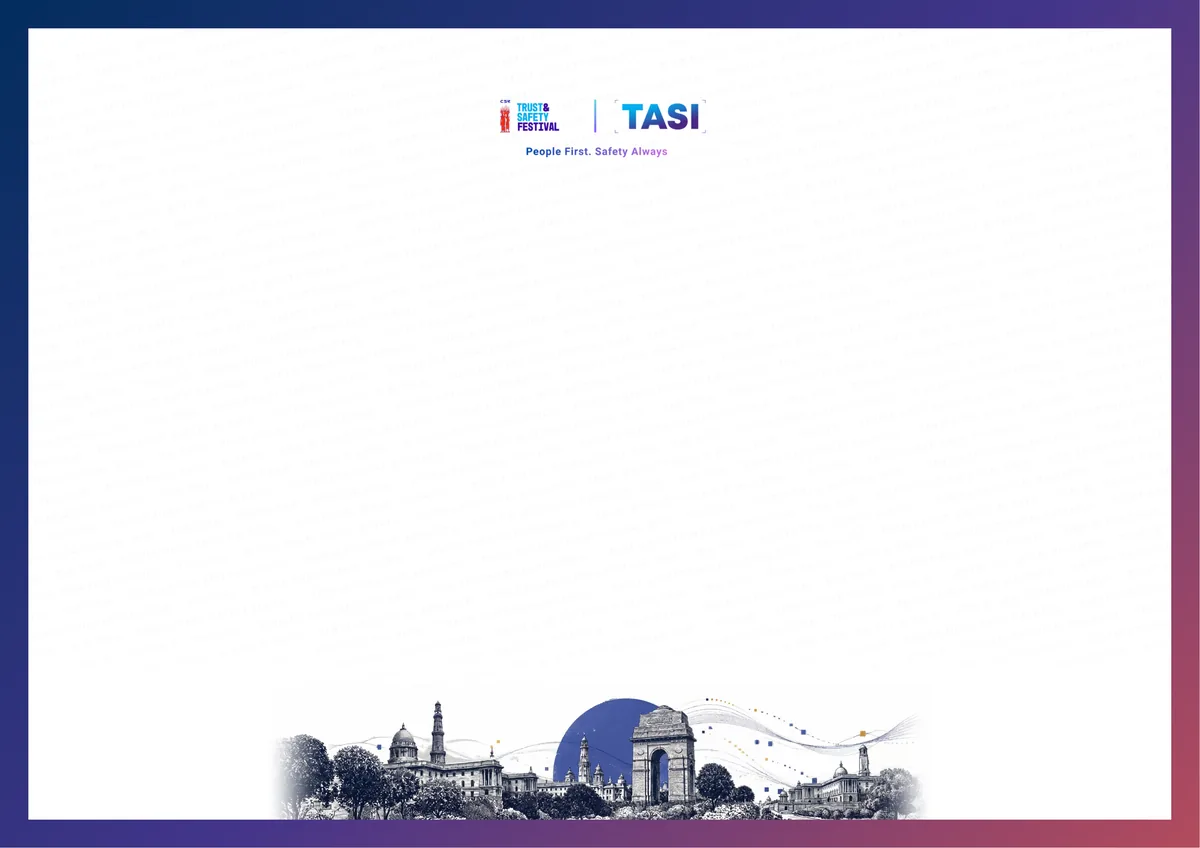
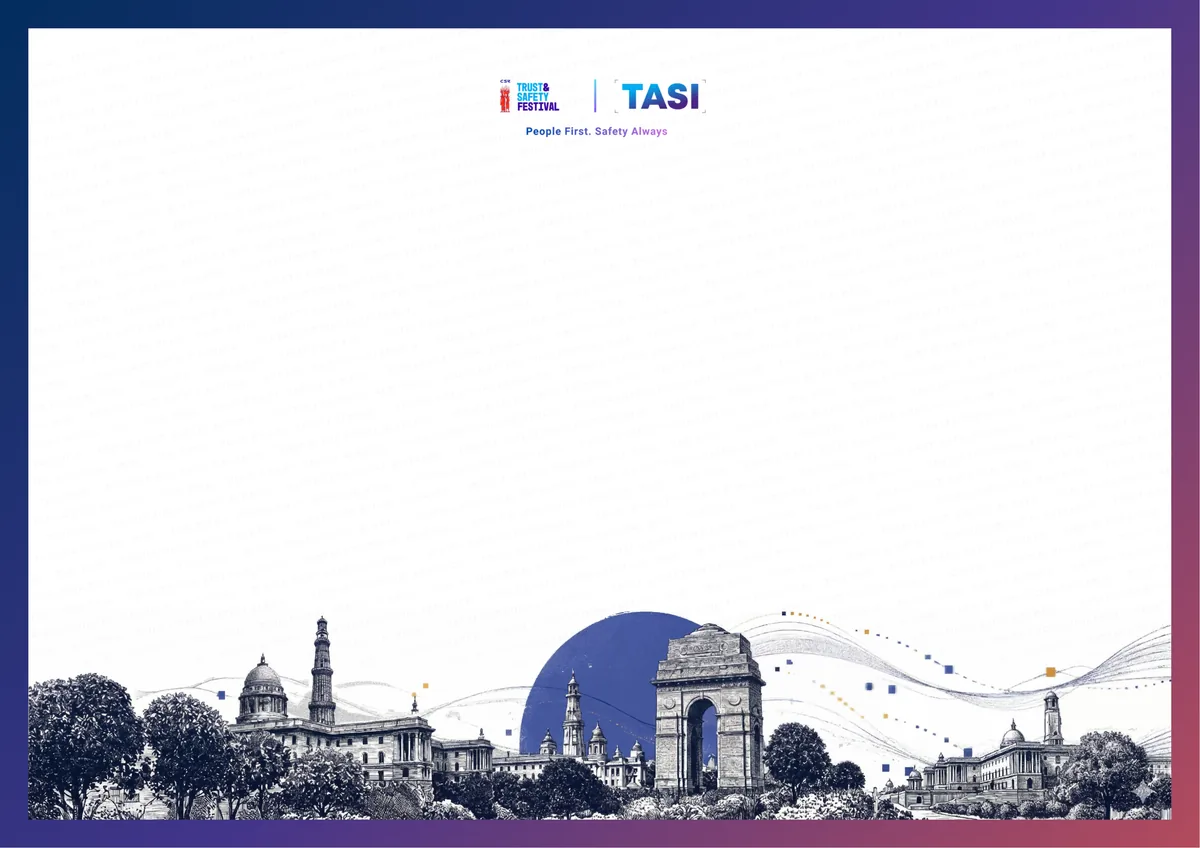
Certificates: full-width skyline touching both margins
The skyline is now a full-width band, as in the first mockup. Text moves
up 6 mm and the signature and verification block 12 mm to make room; the
bottom microtext moves into the coloured border. Preview, share card and
template backgrounds updated to match.

Claude-Session: https://claude.ai/code/session_01QDfwv1k387J6mq4NYmVYdf

Changed region(s): [[0.0, 0.7052, 0.9867, 0.9811], [0.4008, 0.092, 0.5858, 0.184]]

diff --git a/scripts/certificates/attendee-template.html b/scripts/certificates/attendee-template.html
@@ -12,10 +12,10 @@
   .frame { width: 297mm; height: 210mm; padding: 7mm; background: linear-gradient(135deg, #022d5d 0%, #43358a 52%, #b34b5c 100%); }
   .page { position: relative; width: 100%; height: 100%; background: #fff; overflow: hidden; }
   .micro { position: absolute; inset: -20mm; transform: rotate(-12deg); font-size: 5.5pt; line-height: 4.6mm; letter-spacing: .16em; font-weight: 600; color: #022d5d; opacity: .028; white-space: nowrap; overflow: hidden; }
-    .logo { mix-blend-mode: multiply; position: absolute; left: 50%; top: 14mm; height: 19mm; transform: translateX(-50%); }
-  .sig { position: absolute; left: 26mm; top: 124mm; height: 19mm; }
+    .logo { mix-blend-mode: multiply; position: absolute; left: 50%; top: 9mm; height: 19mm; transform: translateX(-50%); }
+  .sig { position: absolute; left: 26mm; top: 112mm; height: 19mm; }
     .fade { position: absolute; left: 0; right: 0; bottom: 0; height: 46mm; background: linear-gradient(to bottom, rgba(255,255,255,0) 0%, #fff 32%); }
-  .footer { mix-blend-mode: multiply; position: absolute; left: 50%; bottom: 0; width: 165mm; transform: translateX(-50%); }
+  .footer { mix-blend-mode: multiply; position: absolute; left: 0; bottom: 0; width: 100%; display: block; }
 </style></head>
 <body><div class="frame"><div class="page">
   <div class="micro"><div style="margin-left:-0mm">TRUST &amp; SAFETY INDIA FESTIVAL 2026 &nbsp;·&nbsp; TASI 2026 &nbsp;·&nbsp; PEOPLE FIRST. SAFETY ALWAYS. &nbsp;·&nbsp; CENTRE FOR SOCIAL RESEARCH &nbsp;·&nbsp; TRUST &amp; SAFETY INDIA FESTIVAL 2026 &nbsp;·&nbsp; TASI 2026 &nbsp;·&nbsp; PEOPLE FIRST. SAFETY ALWAYS. &nbsp;·&nbsp; CENTRE FOR SOCIAL RESEARCH &nbsp;·&nbsp; TRUST &amp; SAFETY INDIA FESTIVAL 2026 &nbsp;·&nbsp; TASI 2026 &nbsp;·&nbsp; PEOPLE FIRST. SAFETY ALWAYS. &nbsp;·&nbsp; CENTRE FOR SOCIAL RESEARCH &nbsp;·&nbsp; TRUST &amp; SAFETY INDIA FESTIVAL 2026 &nbsp;·&nbsp; TASI 2026 &nbsp;·&nbsp; PEOPLE FIRST. SAFETY ALWAYS. &nbsp;·&nbsp; CENTRE FOR SOCIAL RESEARCH &nbsp;·&nbsp; </div><div style="margin-left:-30mm">TRUST &amp; SAFETY INDIA FESTIVAL 2026 &nbsp;·&nbsp; TASI 2026 &nbsp;·&nbsp; PEOPLE FIRST. SAFETY ALWAYS. &nbsp;·&nbsp; CENTRE FOR SOCIAL RESEARCH &nbsp;·&nbsp; TRUST &amp; SAFETY INDIA FESTIVAL 2026 &nbsp;·&nbsp; TASI 2026 &nbsp;·&nbsp; PEOPLE FIRST. SAFETY ALWAYS. &nbsp;·&nbsp; CENTRE FOR SOCIAL RESEARCH &nbsp;·&nbsp; TRUST &amp; SAFETY INDIA FESTIVAL 2026 &nbsp;·&nbsp; TASI 2026 &nbsp;·&nbsp; PEOPLE FIRST. SAFETY ALWAYS. &nbsp;·&nbsp; CENTRE FOR SOCIAL RESEARCH &nbsp;·&nbsp; TRUST &amp; SAFETY INDIA FESTIVAL 2026 &nbsp;·&nbsp; TASI 2026 &nbsp;·&nbsp; PEOPLE FIRST. SAFETY ALWAYS. &nbsp;·&nbsp; CENTRE FOR SOCIAL RESEARCH &nbsp;·&nbsp; </div><div style="margin-left:-0mm">TRUST &amp; SAFETY INDIA FESTIVAL 2026 &nbsp;·&nbsp; TASI 2026 &nbsp;·&nbsp; PEOPLE FIRST. SAFETY ALWAYS. &nbsp;·&nbsp; CENTRE FOR SOCIAL RESEARCH &nbsp;·&nbsp; TRUST &amp; SAFETY INDIA FESTIVAL 2026 &nbsp;·&nbsp; TASI 2026 &nbsp;·&nbsp; PEOPLE FIRST. SAFETY ALWAYS. &nbsp;·&nbsp; CENTRE FOR SOCIAL RESEARCH &nbsp;·&nbsp; TRUST &amp; SAFETY INDIA FESTIVAL 2026 &nbsp;·&nbsp; TASI 2026 &nbsp;·&nbsp; PEOPLE FIRST. SAFETY ALWAYS. &nbsp;·&nbsp; CENTRE FOR SOCIAL RESEARCH &nbsp;·&nbsp; TRUST &amp; SAFETY INDIA FESTIVAL 2026 &nbsp;·&nbsp; TASI 2026 &nbsp;·&nbsp; PEOPLE FIRST. SAFETY ALWAYS. &nbsp;·&nbsp; CENTRE FOR SOCIAL RESEARCH &nbsp;·&nbsp; </div><div style="margin-left:-30mm">TRUST &amp; SAFETY INDIA FESTIVAL 2026 &nbsp;·&nbsp; TASI 2026 &nbsp;·&nbsp; PEOPLE FIRST. SAFETY ALWAYS. &nbsp;·&nbsp; CENTRE FOR SOCIAL RESEARCH &nbsp;·&nbsp; TRUST &amp; SAFETY INDIA FESTIVAL 2026 &nbsp;·&nbsp; TASI 2026 &nbsp;·&nbsp; PEOPLE FIRST. SAFETY ALWAYS. &nbsp;·&nbsp; CENTRE FOR SOCIAL RESEARCH &nbsp;·&nbsp; TRUST &amp; SAFETY INDIA FESTIVAL 2026 &nbsp;·&nbsp; TASI 2026 &nbsp;·&nbsp; PEOPLE FIRST. SAFETY ALWAYS. &nbsp;·&nbsp; CENTRE FOR SOCIAL RESEARCH &nbsp;·&nbsp; TRUST &amp; SAFETY INDIA FESTIVAL 2026 &nbsp;·&nbsp; TASI 2026 &nbsp;·&nbsp; PEOPLE FIRST. SAFETY ALWAYS. &nbsp;·&nbsp; CENTRE FOR SOCIAL RESEARCH &nbsp;·&nbsp; </div><div style="margin-left:-0mm">TRUST &amp; SAFETY INDIA FESTIVAL 2026 &nbsp;·&nbsp; TASI 2026 &nbsp;·&nbsp; PEOPLE FIRST. SAFETY ALWAYS. &nbsp;·&nbsp; CENTRE FOR SOCIAL RESEARCH &nbsp;·&nbsp; TRUST &amp; SAFETY INDIA FESTIVAL 2026 &nbsp;·&nbsp; TASI 2026 &nbsp;·&nbsp; PEOPLE FIRST. SAFETY ALWAYS. &nbsp;·&nbsp; CENTRE FOR SOCIAL RESEARCH &nbsp;·&nbsp; TRUST &amp; SAFETY INDIA FESTIVAL 2026 &nbsp;·&nbsp; TASI 2026 &nbsp;·&nbsp; PEOPLE FIRST. SAFETY ALWAYS. &nbsp;·&nbsp; CENTRE FOR SOCIAL RESEARCH &nbsp;·&nbsp; TRUST &amp; SAFETY INDIA FESTIVAL 2026 &nbsp;·&nbsp; TASI 2026 &nbsp;·&nbsp; PEOPLE FIRST. SAFETY ALWAYS. &nbsp;·&nbsp; CENTRE FOR SOCIAL RESEARCH &nbsp;·&nbsp; </div><div style="margin-left:-30mm">TRUST &amp; SAFETY INDIA FESTIVAL 2026 &nbsp;·&nbsp; TASI 2026 &nbsp;·&nbsp; PEOPLE FIRST. SAFETY ALWAYS. &nbsp;·&nbsp; CENTRE FOR SOCIAL RESEARCH &nbsp;·&nbsp; TRUST &amp; SAFETY INDIA FESTIVAL 2026 &nbsp;·&nbsp; TASI 2026 &nbsp;·&nbsp; PEOPLE FIRST. SAFETY ALWAYS. &nbsp;·&nbsp; CENTRE FOR SOCIAL RESEARCH &nbsp;·&nbsp; TRUST &amp; SAFETY INDIA FESTIVAL 2026 &nbsp;·&nbsp; TASI 2026 &nbsp;·&nbsp; PEOPLE FIRST. SAFETY ALWAYS. &nbsp;·&nbsp; CENTRE FOR SOCIAL RESEARCH &nbsp;·&nbsp; TRUST &amp; SAFETY INDIA FESTIVAL 2026 &nbsp;·&nbsp; TASI 2026 &nbsp;·&nbsp; PEOPLE FIRST. SAFETY ALWAYS. &nbsp;·&nbsp; CENTRE FOR SOCIAL RESEARCH &nbsp;·&nbsp; </div><div style="margin-left:-0mm">TRUST &amp; SAFETY INDIA FESTIVAL 2026 &nbsp;·&nbsp; TASI 2026 &nbsp;·&nbsp; PEOPLE FIRST. SAFETY ALWAYS. &nbsp;·&nbsp; CENTRE FOR SOCIAL RESEARCH &nbsp;·&nbsp; TRUST &amp; SAFETY INDIA FESTIVAL 2026 &nbsp;·&nbsp; TASI 2026 &nbsp;·&nbsp; PEOPLE FIRST. SAFETY ALWAYS. &nbsp;·&nbsp; CENTRE FOR SOCIAL RESEARCH &nbsp;·&nbsp; TRUST &amp; SAFETY INDIA FESTIVAL 2026 &nbsp;·&nbsp; TASI 2026 &nbsp;·&nbsp; PEOPLE FIRST. SAFETY ALWAYS. &nbsp;·&nbsp; CENTRE FOR SOCIAL RESEARCH &nbsp;·&nbsp; TRUST &amp; SAFETY INDIA FESTIVAL 2026 &nbsp;·&nbsp; TASI 2026 &nbsp;·&nbsp; PEOPLE FIRST. SAFETY ALWAYS. &nbsp;·&nbsp; CENTRE FOR SOCIAL RESEARCH &nbsp;·&nbsp; </div><div style="margin-left:-30mm">TRUST &amp; SAFETY INDIA FESTIVAL 2026 &nbsp;·&nbsp; TASI 2026 &nbsp;·&nbsp; PEOPLE FIRST. SAFETY ALWAYS. &nbsp;·&nbsp; CENTRE FOR SOCIAL RESEARCH &nbsp;·&nbsp; TRUST &amp; SAFETY INDIA FESTIVAL 2026 &nbsp;·&nbsp; TASI 2026 &nbsp;·&nbsp; PEOPLE FIRST. SAFETY ALWAYS. &nbsp;·&nbsp; CENTRE FOR SOCIAL RESEARCH &nbsp;·&nbsp; TRUST &amp; SAFETY INDIA FESTIVAL 2026 &nbsp;·&nbsp; TASI 2026 &nbsp;·&nbsp; PEOPLE FIRST. SAFETY ALWAYS. &nbsp;·&nbsp; CENTRE FOR SOCIAL RESEARCH &nbsp;·&nbsp; TRUST &amp; SAFETY INDIA FESTIVAL 2026 &nbsp;·&nbsp; TASI 2026 &nbsp;·&nbsp; PEOPLE FIRST. SAFETY ALWAYS. &nbsp;·&nbsp; CENTRE FOR SOCIAL RESEARCH &nbsp;·&nbsp; </div><div style="margin-left:-0mm">TRUST &amp; SAFETY INDIA FESTIVAL 2026 &nbsp;·&nbsp; TASI 2026 &nbsp;·&nbsp; PEOPLE FIRST. SAFETY ALWAYS. &nbsp;·&nbsp; CENTRE FOR SOCIAL RESEARCH &nbsp;·&nbsp; TRUST &amp; SAFETY INDIA FESTIVAL 2026 &nbsp;·&nbsp; TASI 2026 &nbsp;·&nbsp; PEOPLE FIRST. SAFETY ALWAYS. &nbsp;·&nbsp; CENTRE FOR SOCIAL RESEARCH &nbsp;·&nbsp; TRUST &amp; SAFETY INDIA FESTIVAL 2026 &nbsp;·&nbsp; TASI 2026 &nbsp;·&nbsp; PEOPLE FIRST. SAFETY ALWAYS. &nbsp;·&nbsp; CENTRE FOR SOCIAL RESEARCH &nbsp;·&nbsp; TRUST &amp; SAFETY INDIA FESTIVAL 2026 &nbsp;·&nbsp; TASI 2026 &nbsp;·&nbsp; PEOPLE FIRST. SAFETY ALWAYS. &nbsp;·&nbsp; CENTRE FOR SOCIAL RESEARCH &nbsp;·&nbsp; </div><div style="margin-left:-30mm">TRUST &amp; SAFETY INDIA FESTIVAL 2026 &nbsp;·&nbsp; TASI 2026 &nbsp;·&nbsp; PEOPLE FIRST. SAFETY ALWAYS. &nbsp;·&nbsp; CENTRE FOR SOCIAL RESEARCH &nbsp;·&nbsp; TRUST &amp; SAFETY INDIA FESTIVAL 2026 &nbsp;·&nbsp; TASI 2026 &nbsp;·&nbsp; PEOPLE FIRST. SAFETY ALWAYS. &nbsp;·&nbsp; CENTRE FOR SOCIAL RESEARCH &nbsp;·&nbsp; TRUST &amp; SAFETY INDIA FESTIVAL 2026 &nbsp;·&nbsp; TASI 2026 &nbsp;·&nbsp; PEOPLE FIRST. SAFETY ALWAYS. &nbsp;·&nbsp; CENTRE FOR SOCIAL RESEARCH &nbsp;·&nbsp; TRUST &amp; SAFETY INDIA FESTIVAL 2026 &nbsp;·&nbsp; TASI 2026 &nbsp;·&nbsp; PEOPLE FIRST. SAFETY ALWAYS. &nbsp;·&nbsp; CENTRE FOR SOCIAL RESEARCH &nbsp;·&nbsp; </div><div style="margin-left:-0mm">TRUST &amp; SAFETY INDIA FESTIVAL 2026 &nbsp;·&nbsp; TASI 2026 &nbsp;·&nbsp; PEOPLE FIRST. SAFETY ALWAYS. &nbsp;·&nbsp; CENTRE FOR SOCIAL RESEARCH &nbsp;·&nbsp; TRUST &amp; SAFETY INDIA FESTIVAL 2026 &nbsp;·&nbsp; TASI 2026 &nbsp;·&nbsp; PEOPLE FIRST. SAFETY ALWAYS. &nbsp;·&nbsp; CENTRE FOR SOCIAL RESEARCH &nbsp;·&nbsp; TRUST &amp; SAFETY INDIA FESTIVAL 2026 &nbsp;·&nbsp; TASI 2026 &nbsp;·&nbsp; PEOPLE FIRST. SAFETY ALWAYS. &nbsp;·&nbsp; CENTRE FOR SOCIAL RESEARCH &nbsp;·&nbsp; TRUST &amp; SAFETY INDIA FESTIVAL 2026 &nbsp;·&nbsp; TASI 2026 &nbsp;·&nbsp; PEOPLE FIRST. SAFETY ALWAYS. &nbsp;·&nbsp; CENTRE FOR SOCIAL RESEARCH &nbsp;·&nbsp; </div><div style="margin-left:-30mm">TRUST &amp; SAFETY INDIA FESTIVAL 2026 &nbsp;·&nbsp; TASI 2026 &nbsp;·&nbsp; PEOPLE FIRST. SAFETY ALWAYS. &nbsp;·&nbsp; CENTRE FOR SOCIAL RESEARCH &nbsp;·&nbsp; TRUST &amp; SAFETY INDIA FESTIVAL 2026 &nbsp;·&nbsp; TASI 2026 &nbsp;·&nbsp; PEOPLE FIRST. SAFETY ALWAYS. &nbsp;·&nbsp; CENTRE FOR SOCIAL RESEARCH &nbsp;·&nbsp; TRUST &amp; SAFETY INDIA FESTIVAL 2026 &nbsp;·&nbsp; TASI 2026 &nbsp;·&nbsp; PEOPLE FIRST. SAFETY ALWAYS. &nbsp;·&nbsp; CENTRE FOR SOCIAL RESEARCH &nbsp;·&nbsp; TRUST &amp; SAFETY INDIA FESTIVAL 2026 &nbsp;·&nbsp; TASI 2026 &nbsp;·&nbsp; PEOPLE FIRST. SAFETY ALWAYS. &nbsp;·&nbsp; CENTRE FOR SOCIAL RESEARCH &nbsp;·&nbsp; </div><div style="margin-left:-0mm">TRUST &amp; SAFETY INDIA FESTIVAL 2026 &nbsp;·&nbsp; TASI 2026 &nbsp;·&nbsp; PEOPLE FIRST. SAFETY ALWAYS. &nbsp;·&nbsp; CENTRE FOR SOCIAL RESEARCH &nbsp;·&nbsp; TRUST &amp; SAFETY INDIA FESTIVAL 2026 &nbsp;·&nbsp; TASI 2026 &nbsp;·&nbsp; PEOPLE FIRST. SAFETY ALWAYS. &nbsp;·&nbsp; CENTRE FOR SOCIAL RESEARCH &nbsp;·&nbsp; TRUST &amp; SAFETY INDIA FESTIVAL 2026 &nbsp;·&nbsp; TASI 2026 &nbsp;·&nbsp; PEOPLE FIRST. SAFETY ALWAYS. &nbsp;·&nbsp; CENTRE FOR SOCIAL RESEARCH &nbsp;·&nbsp; TRUST &amp; SAFETY INDIA FESTIVAL 2026 &nbsp;·&nbsp; TASI 2026 &nbsp;·&nbsp; PEOPLE FIRST. SAFETY ALWAYS. &nbsp;·&nbsp; CENTRE FOR SOCIAL RESEARCH &nbsp;·&nbsp; </div><div style="margin-left:-30mm">TRUST &amp; SAFETY INDIA FESTIVAL 2026 &nbsp;·&nbsp; TASI 2026 &nbsp;·&nbsp; PEOPLE FIRST. SAFETY ALWAYS. &nbsp;·&nbsp; CENTRE FOR SOCIAL RESEARCH &nbsp;·&nbsp; TRUST &amp; SAFETY INDIA FESTIVAL 2026 &nbsp;·&nbsp; TASI 2026 &nbsp;·&nbsp; PEOPLE FIRST. SAFETY ALWAYS. &nbsp;·&nbsp; CENTRE FOR SOCIAL RESEARCH &nbsp;·&nbsp; TRUST &amp; SAFETY INDIA FESTIVAL 2026 &nbsp;·&nbsp; TASI 2026 &nbsp;·&nbsp; PEOPLE FIRST. SAFETY ALWAYS. &nbsp;·&nbsp; CENTRE FOR SOCIAL RESEARCH &nbsp;·&nbsp; TRUST &amp; SAFETY INDIA FESTIVAL 2026 &nbsp;·&nbsp; TASI 2026 &nbsp;·&nbsp; PEOPLE FIRST. SAFETY ALWAYS. &nbsp;·&nbsp; CENTRE FOR SOCIAL RESEARCH &nbsp;·&nbsp; </div><div style="margin-left:-0mm">TRUST &amp; SAFETY INDIA FESTIVAL 2026 &nbsp;·&nbsp; TASI 2026 &nbsp;·&nbsp; PEOPLE FIRST. SAFETY ALWAYS. &nbsp;·&nbsp; CENTRE FOR SOCIAL RESEARCH &nbsp;·&nbsp; TRUST &amp; SAFETY INDIA FESTIVAL 2026 &nbsp;·&nbsp; TASI 2026 &nbsp;·&nbsp; PEOPLE FIRST. SAFETY ALWAYS. &nbsp;·&nbsp; CENTRE FOR SOCIAL RESEARCH &nbsp;·&nbsp; TRUST &amp; SAFETY INDIA FESTIVAL 2026 &nbsp;·&nbsp; TASI 2026 &nbsp;·&nbsp; PEOPLE FIRST. SAFETY ALWAYS. &nbsp;·&nbsp; CENTRE FOR SOCIAL RESEARCH &nbsp;·&nbsp; TRUST &amp; SAFETY INDIA FESTIVAL 2026 &nbsp;·&nbsp; TASI 2026 &nbsp;·&nbsp; PEOPLE FIRST. SAFETY ALWAYS. &nbsp;·&nbsp; CENTRE FOR SOCIAL RESEARCH &nbsp;·&nbsp; </div><div style="margin-left:-30mm">TRUST &amp; SAFETY INDIA FESTIVAL 2026 &nbsp;·&nbsp; TASI 2026 &nbsp;·&nbsp; PEOPLE FIRST. SAFETY ALWAYS. &nbsp;·&nbsp; CENTRE FOR SOCIAL RESEARCH &nbsp;·&nbsp; TRUST &amp; SAFETY INDIA FESTIVAL 2026 &nbsp;·&nbsp; TASI 2026 &nbsp;·&nbsp; PEOPLE FIRST. SAFETY ALWAYS. &nbsp;·&nbsp; CENTRE FOR SOCIAL RESEARCH &nbsp;·&nbsp; TRUST &amp; SAFETY INDIA FESTIVAL 2026 &nbsp;·&nbsp; TASI 2026 &nbsp;·&nbsp; PEOPLE FIRST. SAFETY ALWAYS. &nbsp;·&nbsp; CENTRE FOR SOCIAL RESEARCH &nbsp;·&nbsp; TRUST &amp; SAFETY INDIA FESTIVAL 2026 &nbsp;·&nbsp; TASI 2026 &nbsp;·&nbsp; PEOPLE FIRST. SAFETY ALWAYS. &nbsp;·&nbsp; CENTRE FOR SOCIAL RESEARCH &nbsp;·&nbsp; </div><div style="margin-left:-0mm">TRUST &amp; SAFETY INDIA FESTIVAL 2026 &nbsp;·&nbsp; TASI 2026 &nbsp;·&nbsp; PEOPLE FIRST. SAFETY ALWAYS. &nbsp;·&nbsp; CENTRE FOR SOCIAL RESEARCH &nbsp;·&nbsp; TRUST &amp; SAFETY INDIA FESTIVAL 2026 &nbsp;·&nbsp; TASI 2026 &nbsp;·&nbsp; PEOPLE FIRST. SAFETY ALWAYS. &nbsp;·&nbsp; CENTRE FOR SOCIAL RESEARCH &nbsp;·&nbsp; TRUST &amp; SAFETY INDIA FESTIVAL 2026 &nbsp;·&nbsp; TASI 2026 &nbsp;·&nbsp; PEOPLE FIRST. SAFETY ALWAYS. &nbsp;·&nbsp; CENTRE FOR SOCIAL RESEARCH &nbsp;·&nbsp; TRUST &amp; SAFETY INDIA FESTIVAL 2026 &nbsp;·&nbsp; TASI 2026 &nbsp;·&nbsp; PEOPLE FIRST. SAFETY ALWAYS. &nbsp;·&nbsp; CENTRE FOR SOCIAL RESEARCH &nbsp;·&nbsp; </div><div style="margin-left:-30mm">TRUST &amp; SAFETY INDIA FESTIVAL 2026 &nbsp;·&nbsp; TASI 2026 &nbsp;·&nbsp; PEOPLE FIRST. SAFETY ALWAYS. &nbsp;·&nbsp; CENTRE FOR SOCIAL RESEARCH &nbsp;·&nbsp; TRUST &amp; SAFETY INDIA FESTIVAL 2026 &nbsp;·&nbsp; TASI 2026 &nbsp;·&nbsp; PEOPLE FIRST. SAFETY ALWAYS. &nbsp;·&nbsp; CENTRE FOR SOCIAL RESEARCH &nbsp;·&nbsp; TRUST &amp; SAFETY INDIA FESTIVAL 2026 &nbsp;·&nbsp; TASI 2026 &nbsp;·&nbsp; PEOPLE FIRST. SAFETY ALWAYS. &nbsp;·&nbsp; CENTRE FOR SOCIAL RESEARCH &nbsp;·&nbsp; TRUST &amp; SAFETY INDIA FESTIVAL 2026 &nbsp;·&nbsp; TASI 2026 &nbsp;·&nbsp; PEOPLE FIRST. SAFETY ALWAYS. &nbsp;·&nbsp; CENTRE FOR SOCIAL RESEARCH &nbsp;·&nbsp; </div><div style="margin-left:-0mm">TRUST &amp; SAFETY INDIA FESTIVAL 2026 &nbsp;·&nbsp; TASI 2026 &nbsp;·&nbsp; PEOPLE FIRST. SAFETY ALWAYS. &nbsp;·&nbsp; CENTRE FOR SOCIAL RESEARCH &nbsp;·&nbsp; TRUST &amp; SAFETY INDIA FESTIVAL 2026 &nbsp;·&nbsp; TASI 2026 &nbsp;·&nbsp; PEOPLE FIRST. SAFETY ALWAYS. &nbsp;·&nbsp; CENTRE FOR SOCIAL RESEARCH &nbsp;·&nbsp; TRUST &amp; SAFETY INDIA FESTIVAL 2026 &nbsp;·&nbsp; TASI 2026 &nbsp;·&nbsp; PEOPLE FIRST. SAFETY ALWAYS. &nbsp;·&nbsp; CENTRE FOR SOCIAL RESEARCH &nbsp;·&nbsp; TRUST &amp; SAFETY INDIA FESTIVAL 2026 &nbsp;·&nbsp; TASI 2026 &nbsp;·&nbsp; PEOPLE FIRST. SAFETY ALWAYS. &nbsp;·&nbsp; CENTRE FOR SOCIAL RESEARCH &nbsp;·&nbsp; </div><div style="margin-left:-30mm">TRUST &amp; SAFETY INDIA FESTIVAL 2026 &nbsp;·&nbsp; TASI 2026 &nbsp;·&nbsp; PEOPLE FIRST. SAFETY ALWAYS. &nbsp;·&nbsp; CENTRE FOR SOCIAL RESEARCH &nbsp;·&nbsp; TRUST &amp; SAFETY INDIA FESTIVAL 2026 &nbsp;·&nbsp; TASI 2026 &nbsp;·&nbsp; PEOPLE FIRST. SAFETY ALWAYS. &nbsp;·&nbsp; CENTRE FOR SOCIAL RESEARCH &nbsp;·&nbsp; TRUST &amp; SAFETY INDIA FESTIVAL 2026 &nbsp;·&nbsp; TASI 2026 &nbsp;·&nbsp; PEOPLE FIRST. SAFETY ALWAYS. &nbsp;·&nbsp; CENTRE FOR SOCIAL RESEARCH &nbsp;·&nbsp; TRUST &amp; SAFETY INDIA FESTIVAL 2026 &nbsp;·&nbsp; TASI 2026 &nbsp;·&nbsp; PEOPLE FIRST. SAFETY ALWAYS. &nbsp;·&nbsp; CENTRE FOR SOCIAL RESEARCH &nbsp;·&nbsp; </div><div style="margin-left:-0mm">TRUST &amp; SAFETY INDIA FESTIVAL 2026 &nbsp;·&nbsp; TASI 2026 &nbsp;·&nbsp; PEOPLE FIRST. SAFETY ALWAYS. &nbsp;·&nbsp; CENTRE FOR SOCIAL RESEARCH &nbsp;·&nbsp; TRUST &amp; SAFETY INDIA FESTIVAL 2026 &nbsp;·&nbsp; TASI 2026 &nbsp;·&nbsp; PEOPLE FIRST. SAFETY ALWAYS. &nbsp;·&nbsp; CENTRE FOR SOCIAL RESEARCH &nbsp;·&nbsp; TRUST &amp; SAFETY INDIA FESTIVAL 2026 &nbsp;·&nbsp; TASI 2026 &nbsp;·&nbsp; PEOPLE FIRST. SAFETY ALWAYS. &nbsp;·&nbsp; CENTRE FOR SOCIAL RESEARCH &nbsp;·&nbsp; TRUST &amp; SAFETY INDIA FESTIVAL 2026 &nbsp;·&nbsp; TASI 2026 &nbsp;·&nbsp; PEOPLE FIRST. SAFETY ALWAYS. &nbsp;·&nbsp; CENTRE FOR SOCIAL RESEARCH &nbsp;·&nbsp; </div><div style="margin-left:-30mm">TRUST &amp; SAFETY INDIA FESTIVAL 2026 &nbsp;·&nbsp; TASI 2026 &nbsp;·&nbsp; PEOPLE FIRST. SAFETY ALWAYS. &nbsp;·&nbsp; CENTRE FOR SOCIAL RESEARCH &nbsp;·&nbsp; TRUST &amp; SAFETY INDIA FESTIVAL 2026 &nbsp;·&nbsp; TASI 2026 &nbsp;·&nbsp; PEOPLE FIRST. SAFETY ALWAYS. &nbsp;·&nbsp; CENTRE FOR SOCIAL RESEARCH &nbsp;·&nbsp; TRUST &amp; SAFETY INDIA FESTIVAL 2026 &nbsp;·&nbsp; TASI 2026 &nbsp;·&nbsp; PEOPLE FIRST. SAFETY ALWAYS. &nbsp;·&nbsp; CENTRE FOR SOCIAL RESEARCH &nbsp;·&nbsp; TRUST &amp; SAFETY INDIA FESTIVAL 2026 &nbsp;·&nbsp; TASI 2026 &nbsp;·&nbsp; PEOPLE FIRST. SAFETY ALWAYS. &nbsp;·&nbsp; CENTRE FOR SOCIAL RESEARCH &nbsp;·&nbsp; </div><div style="margin-left:-0mm">TRUST &amp; SAFETY INDIA FESTIVAL 2026 &nbsp;·&nbsp; TASI 2026 &nbsp;·&nbsp; PEOPLE FIRST. SAFETY ALWAYS. &nbsp;·&nbsp; CENTRE FOR SOCIAL RESEARCH &nbsp;·&nbsp; TRUST &amp; SAFETY INDIA FESTIVAL 2026 &nbsp;·&nbsp; TASI 2026 &nbsp;·&nbsp; PEOPLE FIRST. SAFETY ALWAYS. &nbsp;·&nbsp; CENTRE FOR SOCIAL RESEARCH &nbsp;·&nbsp; TRUST &amp; SAFETY INDIA FESTIVAL 2026 &nbsp;·&nbsp; TASI 2026 &nbsp;·&nbsp; PEOPLE FIRST. SAFETY ALWAYS. &nbsp;·&nbsp; CENTRE FOR SOCIAL RESEARCH &nbsp;·&nbsp; TRUST &amp; SAFETY INDIA FESTIVAL 2026 &nbsp;·&nbsp; TASI 2026 &nbsp;·&nbsp; PEOPLE FIRST. SAFETY ALWAYS. &nbsp;·&nbsp; CENTRE FOR SOCIAL RESEARCH &nbsp;·&nbsp; </div><div style="margin-left:-30mm">TRUST &amp; SAFETY INDIA FESTIVAL 2026 &nbsp;·&nbsp; TASI 2026 &nbsp;·&nbsp; PEOPLE FIRST. SAFETY ALWAYS. &nbsp;·&nbsp; CENTRE FOR SOCIAL RESEARCH &nbsp;·&nbsp; TRUST &amp; SAFETY INDIA FESTIVAL 2026 &nbsp;·&nbsp; TASI 2026 &nbsp;·&nbsp; PEOPLE FIRST. SAFETY ALWAYS. &nbsp;·&nbsp; CENTRE FOR SOCIAL RESEARCH &nbsp;·&nbsp; TRUST &amp; SAFETY INDIA FESTIVAL 2026 &nbsp;·&nbsp; TASI 2026 &nbsp;·&nbsp; PEOPLE FIRST. SAFETY ALWAYS. &nbsp;·&nbsp; CENTRE FOR SOCIAL RESEARCH &nbsp;·&nbsp; TRUST &amp; SAFETY INDIA FESTIVAL 2026 &nbsp;·&nbsp; TASI 2026 &nbsp;·&nbsp; PEOPLE FIRST. SAFETY ALWAYS. &nbsp;·&nbsp; CENTRE FOR SOCIAL RESEARCH &nbsp;·&nbsp; </div><div style="margin-left:-0mm">TRUST &amp; SAFETY INDIA FESTIVAL 2026 &nbsp;·&nbsp; TASI 2026 &nbsp;·&nbsp; PEOPLE FIRST. SAFETY ALWAYS. &nbsp;·&nbsp; CENTRE FOR SOCIAL RESEARCH &nbsp;·&nbsp; TRUST &amp; SAFETY INDIA FESTIVAL 2026 &nbsp;·&nbsp; TASI 2026 &nbsp;·&nbsp; PEOPLE FIRST. SAFETY ALWAYS. &nbsp;·&nbsp; CENTRE FOR SOCIAL RESEARCH &nbsp;·&nbsp; TRUST &amp; SAFETY INDIA FESTIVAL 2026 &nbsp;·&nbsp; TASI 2026 &nbsp;·&nbsp; PEOPLE FIRST. SAFETY ALWAYS. &nbsp;·&nbsp; CENTRE FOR SOCIAL RESEARCH &nbsp;·&nbsp; TRUST &amp; SAFETY INDIA FESTIVAL 2026 &nbsp;·&nbsp; TASI 2026 &nbsp;·&nbsp; PEOPLE FIRST. SAFETY ALWAYS. &nbsp;·&nbsp; CENTRE FOR SOCIAL RESEARCH &nbsp;·&nbsp; </div><div style="margin-left:-30mm">TRUST &amp; SAFETY INDIA FESTIVAL 2026 &nbsp;·&nbsp; TASI 2026 &nbsp;·&nbsp; PEOPLE FIRST. SAFETY ALWAYS. &nbsp;·&nbsp; CENTRE FOR SOCIAL RESEARCH &nbsp;·&nbsp; TRUST &amp; SAFETY INDIA FESTIVAL 2026 &nbsp;·&nbsp; TASI 2026 &nbsp;·&nbsp; PEOPLE FIRST. SAFETY ALWAYS. &nbsp;·&nbsp; CENTRE FOR SOCIAL RESEARCH &nbsp;·&nbsp; TRUST &amp; SAFETY INDIA FESTIVAL 2026 &nbsp;·&nbsp; TASI 2026 &nbsp;·&nbsp; PEOPLE FIRST. SAFETY ALWAYS. &nbsp;·&nbsp; CENTRE FOR SOCIAL RESEARCH &nbsp;·&nbsp; TRUST &amp; SAFETY INDIA FESTIVAL 2026 &nbsp;·&nbsp; TASI 2026 &nbsp;·&nbsp; PEOPLE FIRST. SAFETY ALWAYS. &nbsp;·&nbsp; CENTRE FOR SOCIAL RESEARCH &nbsp;·&nbsp; </div><div style="margin-left:-0mm">TRUST &amp; SAFETY INDIA FESTIVAL 2026 &nbsp;·&nbsp; TASI 2026 &nbsp;·&nbsp; PEOPLE FIRST. SAFETY ALWAYS. &nbsp;·&nbsp; CENTRE FOR SOCIAL RESEARCH &nbsp;·&nbsp; TRUST &amp; SAFETY INDIA FESTIVAL 2026 &nbsp;·&nbsp; TASI 2026 &nbsp;·&nbsp; PEOPLE FIRST. SAFETY ALWAYS. &nbsp;·&nbsp; CENTRE FOR SOCIAL RESEARCH &nbsp;·&nbsp; TRUST &amp; SAFETY INDIA FESTIVAL 2026 &nbsp;·&nbsp; TASI 2026 &nbsp;·&nbsp; PEOPLE FIRST. SAFETY ALWAYS. &nbsp;·&nbsp; CENTRE FOR SOCIAL RESEARCH &nbsp;·&nbsp; TRUST &amp; SAFETY INDIA FESTIVAL 2026 &nbsp;·&nbsp; TASI 2026 &nbsp;·&nbsp; PEOPLE FIRST. SAFETY ALWAYS. &nbsp;·&nbsp; CENTRE FOR SOCIAL RESEARCH &nbsp;·&nbsp; </div><div style="margin-left:-30mm">TRUST &amp; SAFETY INDIA FESTIVAL 2026 &nbsp;·&nbsp; TASI 2026 &nbsp;·&nbsp; PEOPLE FIRST. SAFETY ALWAYS. &nbsp;·&nbsp; CENTRE FOR SOCIAL RESEARCH &nbsp;·&nbsp; TRUST &amp; SAFETY INDIA FESTIVAL 2026 &nbsp;·&nbsp; TASI 2026 &nbsp;·&nbsp; PEOPLE FIRST. SAFETY ALWAYS. &nbsp;·&nbsp; CENTRE FOR SOCIAL RESEARCH &nbsp;·&nbsp; TRUST &amp; SAFETY INDIA FESTIVAL 2026 &nbsp;·&nbsp; TASI 2026 &nbsp;·&nbsp; PEOPLE FIRST. SAFETY ALWAYS. &nbsp;·&nbsp; CENTRE FOR SOCIAL RESEARCH &nbsp;·&nbsp; TRUST &amp; SAFETY INDIA FESTIVAL 2026 &nbsp;·&nbsp; TASI 2026 &nbsp;·&nbsp; PEOPLE FIRST. SAFETY ALWAYS. &nbsp;·&nbsp; CENTRE FOR SOCIAL RESEARCH &nbsp;·&nbsp; </div><div style="margin-left:-0mm">TRUST &amp; SAFETY INDIA FESTIVAL 2026 &nbsp;·&nbsp; TASI 2026 &nbsp;·&nbsp; PEOPLE FIRST. SAFETY ALWAYS. &nbsp;·&nbsp; CENTRE FOR SOCIAL RESEARCH &nbsp;·&nbsp; TRUST &amp; SAFETY INDIA FESTIVAL 2026 &nbsp;·&nbsp; TASI 2026 &nbsp;·&nbsp; PEOPLE FIRST. SAFETY ALWAYS. &nbsp;·&nbsp; CENTRE FOR SOCIAL RESEARCH &nbsp;·&nbsp; TRUST &amp; SAFETY INDIA FESTIVAL 2026 &nbsp;·&nbsp; TASI 2026 &nbsp;·&nbsp; PEOPLE FIRST. SAFETY ALWAYS. &nbsp;·&nbsp; CENTRE FOR SOCIAL RESEARCH &nbsp;·&nbsp; TRUST &amp; SAFETY INDIA FESTIVAL 2026 &nbsp;·&nbsp; TASI 2026 &nbsp;·&nbsp; PEOPLE FIRST. SAFETY ALWAYS. &nbsp;·&nbsp; CENTRE FOR SOCIAL RESEARCH &nbsp;·&nbsp; </div><div style="margin-left:-30mm">TRUST &amp; SAFETY INDIA FESTIVAL 2026 &nbsp;·&nbsp; TASI 2026 &nbsp;·&nbsp; PEOPLE FIRST. SAFETY ALWAYS. &nbsp;·&nbsp; CENTRE FOR SOCIAL RESEARCH &nbsp;·&nbsp; TRUST &amp; SAFETY INDIA FESTIVAL 2026 &nbsp;·&nbsp; TASI 2026 &nbsp;·&nbsp; PEOPLE FIRST. SAFETY ALWAYS. &nbsp;·&nbsp; CENTRE FOR SOCIAL RESEARCH &nbsp;·&nbsp; TRUST &amp; SAFETY INDIA FESTIVAL 2026 &nbsp;·&nbsp; TASI 2026 &nbsp;·&nbsp; PEOPLE FIRST. SAFETY ALWAYS. &nbsp;·&nbsp; CENTRE FOR SOCIAL RESEARCH &nbsp;·&nbsp; TRUST &amp; SAFETY INDIA FESTIVAL 2026 &nbsp;·&nbsp; TASI 2026 &nbsp;·&nbsp; PEOPLE FIRST. SAFETY ALWAYS. &nbsp;·&nbsp; CENTRE FOR SOCIAL RESEARCH &nbsp;·&nbsp; </div><div style="margin-left:-0mm">TRUST &amp; SAFETY INDIA FESTIVAL 2026 &nbsp;·&nbsp; TASI 2026 &nbsp;·&nbsp; PEOPLE FIRST. SAFETY ALWAYS. &nbsp;·&nbsp; CENTRE FOR SOCIAL RESEARCH &nbsp;·&nbsp; TRUST &amp; SAFETY INDIA FESTIVAL 2026 &nbsp;·&nbsp; TASI 2026 &nbsp;·&nbsp; PEOPLE FIRST. SAFETY ALWAYS. &nbsp;·&nbsp; CENTRE FOR SOCIAL RESEARCH &nbsp;·&nbsp; TRUST &amp; SAFETY INDIA FESTIVAL 2026 &nbsp;·&nbsp; TASI 2026 &nbsp;·&nbsp; PEOPLE FIRST. SAFETY ALWAYS. &nbsp;·&nbsp; CENTRE FOR SOCIAL RESEARCH &nbsp;·&nbsp; TRUST &amp; SAFETY INDIA FESTIVAL 2026 &nbsp;·&nbsp; TASI 2026 &nbsp;·&nbsp; PEOPLE FIRST. SAFETY ALWAYS. &nbsp;·&nbsp; CENTRE FOR SOCIAL RESEARCH &nbsp;·&nbsp; </div><div style="margin-left:-30mm">TRUST &amp; SAFETY INDIA FESTIVAL 2026 &nbsp;·&nbsp; TASI 2026 &nbsp;·&nbsp; PEOPLE FIRST. SAFETY ALWAYS. &nbsp;·&nbsp; CENTRE FOR SOCIAL RESEARCH &nbsp;·&nbsp; TRUST &amp; SAFETY INDIA FESTIVAL 2026 &nbsp;·&nbsp; TASI 2026 &nbsp;·&nbsp; PEOPLE FIRST. SAFETY ALWAYS. &nbsp;·&nbsp; CENTRE FOR SOCIAL RESEARCH &nbsp;·&nbsp; TRUST &amp; SAFETY INDIA FESTIVAL 2026 &nbsp;·&nbsp; TASI 2026 &nbsp;·&nbsp; PEOPLE FIRST. SAFETY ALWAYS. &nbsp;·&nbsp; CENTRE FOR SOCIAL RESEARCH &nbsp;·&nbsp; TRUST &amp; SAFETY INDIA FESTIVAL 2026 &nbsp;·&nbsp; TASI 2026 &nbsp;·&nbsp; PEOPLE FIRST. SAFETY ALWAYS. &nbsp;·&nbsp; CENTRE FOR SOCIAL RESEARCH &nbsp;·&nbsp; </div><div style="margin-left:-0mm">TRUST &amp; SAFETY INDIA FESTIVAL 2026 &nbsp;·&nbsp; TASI 2026 &nbsp;·&nbsp; PEOPLE FIRST. SAFETY ALWAYS. &nbsp;·&nbsp; CENTRE FOR SOCIAL RESEARCH &nbsp;·&nbsp; TRUST &amp; SAFETY INDIA FESTIVAL 2026 &nbsp;·&nbsp; TASI 2026 &nbsp;·&nbsp; PEOPLE FIRST. SAFETY ALWAYS. &nbsp;·&nbsp; CENTRE FOR SOCIAL RESEARCH &nbsp;·&nbsp; TRUST &amp; SAFETY INDIA FESTIVAL 2026 &nbsp;·&nbsp; TASI 2026 &nbsp;·&nbsp; PEOPLE FIRST. SAFETY ALWAYS. &nbsp;·&nbsp; CENTRE FOR SOCIAL RESEARCH &nbsp;·&nbsp; TRUST &amp; SAFETY INDIA FESTIVAL 2026 &nbsp;·&nbsp; TASI 2026 &nbsp;·&nbsp; PEOPLE FIRST. SAFETY ALWAYS. &nbsp;·&nbsp; CENTRE FOR SOCIAL RESEARCH &nbsp;·&nbsp; </div><div style="margin-left:-30mm">TRUST &amp; SAFETY INDIA FESTIVAL 2026 &nbsp;·&nbsp; TASI 2026 &nbsp;·&nbsp; PEOPLE FIRST. SAFETY ALWAYS. &nbsp;·&nbsp; CENTRE FOR SOCIAL RESEARCH &nbsp;·&nbsp; TRUST &amp; SAFETY INDIA FESTIVAL 2026 &nbsp;·&nbsp; TASI 2026 &nbsp;·&nbsp; PEOPLE FIRST. SAFETY ALWAYS. &nbsp;·&nbsp; CENTRE FOR SOCIAL RESEARCH &nbsp;·&nbsp; TRUST &amp; SAFETY INDIA FESTIVAL 2026 &nbsp;·&nbsp; TASI 2026 &nbsp;·&nbsp; PEOPLE FIRST. SAFETY ALWAYS. &nbsp;·&nbsp; CENTRE FOR SOCIAL RESEARCH &nbsp;·&nbsp; TRUST &amp; SAFETY INDIA FESTIVAL 2026 &nbsp;·&nbsp; TASI 2026 &nbsp;·&nbsp; PEOPLE FIRST. SAFETY ALWAYS. &nbsp;·&nbsp; CENTRE FOR SOCIAL RESEARCH &nbsp;·&nbsp; </div><div style="margin-left:-0mm">TRUST &amp; SAFETY INDIA FESTIVAL 2026 &nbsp;·&nbsp; TASI 2026 &nbsp;·&nbsp; PEOPLE FIRST. SAFETY ALWAYS. &nbsp;·&nbsp; CENTRE FOR SOCIAL RESEARCH &nbsp;·&nbsp; TRUST &amp; SAFETY INDIA FESTIVAL 2026 &nbsp;·&nbsp; TASI 2026 &nbsp;·&nbsp; PEOPLE FIRST. SAFETY ALWAYS. &nbsp;·&nbsp; CENTRE FOR SOCIAL RESEARCH &nbsp;·&nbsp; TRUST &amp; SAFETY INDIA FESTIVAL 2026 &nbsp;·&nbsp; TASI 2026 &nbsp;·&nbsp; PEOPLE FIRST. SAFETY ALWAYS. &nbsp;·&nbsp; CENTRE FOR SOCIAL RESEARCH &nbsp;·&nbsp; TRUST &amp; SAFETY INDIA FESTIVAL 2026 &nbsp;·&nbsp; TASI 2026 &nbsp;·&nbsp; PEOPLE FIRST. SAFETY ALWAYS. &nbsp;·&nbsp; CENTRE FOR SOCIAL RESEARCH &nbsp;·&nbsp; </div><div style="margin-left:-30mm">TRUST &amp; SAFETY INDIA FESTIVAL 2026 &nbsp;·&nbsp; TASI 2026 &nbsp;·&nbsp; PEOPLE FIRST. SAFETY ALWAYS. &nbsp;·&nbsp; CENTRE FOR SOCIAL RESEARCH &nbsp;·&nbsp; TRUST &amp; SAFETY INDIA FESTIVAL 2026 &nbsp;·&nbsp; TASI 2026 &nbsp;·&nbsp; PEOPLE FIRST. SAFETY ALWAYS. &nbsp;·&nbsp; CENTRE FOR SOCIAL RESEARCH &nbsp;·&nbsp; TRUST &amp; SAFETY INDIA FESTIVAL 2026 &nbsp;·&nbsp; TASI 2026 &nbsp;·&nbsp; PEOPLE FIRST. SAFETY ALWAYS. &nbsp;·&nbsp; CENTRE FOR SOCIAL RESEARCH &nbsp;·&nbsp; TRUST &amp; SAFETY INDIA FESTIVAL 2026 &nbsp;·&nbsp; TASI 2026 &nbsp;·&nbsp; PEOPLE FIRST. SAFETY ALWAYS. &nbsp;·&nbsp; CENTRE FOR SOCIAL RESEARCH &nbsp;·&nbsp; </div><div style="margin-left:-0mm">TRUST &amp; SAFETY INDIA FESTIVAL 2026 &nbsp;·&nbsp; TASI 2026 &nbsp;·&nbsp; PEOPLE FIRST. SAFETY ALWAYS. &nbsp;·&nbsp; CENTRE FOR SOCIAL RESEARCH &nbsp;·&nbsp; TRUST &amp; SAFETY INDIA FESTIVAL 2026 &nbsp;·&nbsp; TASI 2026 &nbsp;·&nbsp; PEOPLE FIRST. SAFETY ALWAYS. &nbsp;·&nbsp; CENTRE FOR SOCIAL RESEARCH &nbsp;·&nbsp; TRUST &amp; SAFETY INDIA FESTIVAL 2026 &nbsp;·&nbsp; TASI 2026 &nbsp;·&nbsp; PEOPLE FIRST. SAFETY ALWAYS. &nbsp;·&nbsp; CENTRE FOR SOCIAL RESEARCH &nbsp;·&nbsp; TRUST &amp; SAFETY INDIA FESTIVAL 2026 &nbsp;·&nbsp; TASI 2026 &nbsp;·&nbsp; PEOPLE FIRST. SAFETY ALWAYS. &nbsp;·&nbsp; CENTRE FOR SOCIAL RESEARCH &nbsp;·&nbsp; </div><div style="margin-left:-30mm">TRUST &amp; SAFETY INDIA FESTIVAL 2026 &nbsp;·&nbsp; TASI 2026 &nbsp;·&nbsp; PEOPLE FIRST. SAFETY ALWAYS. &nbsp;·&nbsp; CENTRE FOR SOCIAL RESEARCH &nbsp;·&nbsp; TRUST &amp; SAFETY INDIA FESTIVAL 2026 &nbsp;·&nbsp; TASI 2026 &nbsp;·&nbsp; PEOPLE FIRST. SAFETY ALWAYS. &nbsp;·&nbsp; CENTRE FOR SOCIAL RESEARCH &nbsp;·&nbsp; TRUST &amp; SAFETY INDIA FESTIVAL 2026 &nbsp;·&nbsp; TASI 2026 &nbsp;·&nbsp; PEOPLE FIRST. SAFETY ALWAYS. &nbsp;·&nbsp; CENTRE FOR SOCIAL RESEARCH &nbsp;·&nbsp; TRUST &amp; SAFETY INDIA FESTIVAL 2026 &nbsp;·&nbsp; TASI 2026 &nbsp;·&nbsp; PEOPLE FIRST. SAFETY ALWAYS. &nbsp;·&nbsp; CENTRE FOR SOCIAL RESEARCH &nbsp;·&nbsp; </div><div style="margin-left:-0mm">TRUST &amp; SAFETY INDIA FESTIVAL 2026 &nbsp;·&nbsp; TASI 2026 &nbsp;·&nbsp; PEOPLE FIRST. SAFETY ALWAYS. &nbsp;·&nbsp; CENTRE FOR SOCIAL RESEARCH &nbsp;·&nbsp; TRUST &amp; SAFETY INDIA FESTIVAL 2026 &nbsp;·&nbsp; TASI 2026 &nbsp;·&nbsp; PEOPLE FIRST. SAFETY ALWAYS. &nbsp;·&nbsp; CENTRE FOR SOCIAL RESEARCH &nbsp;·&nbsp; TRUST &amp; SAFETY INDIA FESTIVAL 2026 &nbsp;·&nbsp; TASI 2026 &nbsp;·&nbsp; PEOPLE FIRST. SAFETY ALWAYS. &nbsp;·&nbsp; CENTRE FOR SOCIAL RESEARCH &nbsp;·&nbsp; TRUST &amp; SAFETY INDIA FESTIVAL 2026 &nbsp;·&nbsp; TASI 2026 &nbsp;·&nbsp; PEOPLE FIRST. SAFETY ALWAYS. &nbsp;·&nbsp; CENTRE FOR SOCIAL RESEARCH &nbsp;·&nbsp; </div><div style="margin-left:-30mm">TRUST &amp; SAFETY INDIA FESTIVAL 2026 &nbsp;·&nbsp; TASI 2026 &nbsp;·&nbsp; PEOPLE FIRST. SAFETY ALWAYS. &nbsp;·&nbsp; CENTRE FOR SOCIAL RESEARCH &nbsp;·&nbsp; TRUST &amp; SAFETY INDIA FESTIVAL 2026 &nbsp;·&nbsp; TASI 2026 &nbsp;·&nbsp; PEOPLE FIRST. SAFETY ALWAYS. &nbsp;·&nbsp; CENTRE FOR SOCIAL RESEARCH &nbsp;·&nbsp; TRUST &amp; SAFETY INDIA FESTIVAL 2026 &nbsp;·&nbsp; TASI 2026 &nbsp;·&nbsp; PEOPLE FIRST. SAFETY ALWAYS. &nbsp;·&nbsp; CENTRE FOR SOCIAL RESEARCH &nbsp;·&nbsp; TRUST &amp; SAFETY INDIA FESTIVAL 2026 &nbsp;·&nbsp; TASI 2026 &nbsp;·&nbsp; PEOPLE FIRST. SAFETY ALWAYS. &nbsp;·&nbsp; CENTRE FOR SOCIAL RESEARCH &nbsp;·&nbsp; </div><div style="margin-left:-0mm">TRUST &amp; SAFETY INDIA FESTIVAL 2026 &nbsp;·&nbsp; TASI 2026 &nbsp;·&nbsp; PEOPLE FIRST. SAFETY ALWAYS. &nbsp;·&nbsp; CENTRE FOR SOCIAL RESEARCH &nbsp;·&nbsp; TRUST &amp; SAFETY INDIA FESTIVAL 2026 &nbsp;·&nbsp; TASI 2026 &nbsp;·&nbsp; PEOPLE FIRST. SAFETY ALWAYS. &nbsp;·&nbsp; CENTRE FOR SOCIAL RESEARCH &nbsp;·&nbsp; TRUST &amp; SAFETY INDIA FESTIVAL 2026 &nbsp;·&nbsp; TASI 2026 &nbsp;·&nbsp; PEOPLE FIRST. SAFETY ALWAYS. &nbsp;·&nbsp; CENTRE FOR SOCIAL RESEARCH &nbsp;·&nbsp; TRUST &amp; SAFETY INDIA FESTIVAL 2026 &nbsp;·&nbsp; TASI 2026 &nbsp;·&nbsp; PEOPLE FIRST. SAFETY ALWAYS. &nbsp;·&nbsp; CENTRE FOR SOCIAL RESEARCH &nbsp;·&nbsp; </div><div style="margin-left:-30mm">TRUST &amp; SAFETY INDIA FESTIVAL 2026 &nbsp;·&nbsp; TASI 2026 &nbsp;·&nbsp; PEOPLE FIRST. SAFETY ALWAYS. &nbsp;·&nbsp; CENTRE FOR SOCIAL RESEARCH &nbsp;·&nbsp; TRUST &amp; SAFETY INDIA FESTIVAL 2026 &nbsp;·&nbsp; TASI 2026 &nbsp;·&nbsp; PEOPLE FIRST. SAFETY ALWAYS. &nbsp;·&nbsp; CENTRE FOR SOCIAL RESEARCH &nbsp;·&nbsp; TRUST &amp; SAFETY INDIA FESTIVAL 2026 &nbsp;·&nbsp; TASI 2026 &nbsp;·&nbsp; PEOPLE FIRST. SAFETY ALWAYS. &nbsp;·&nbsp; CENTRE FOR SOCIAL RESEARCH &nbsp;·&nbsp; TRUST &amp; SAFETY INDIA FESTIVAL 2026 &nbsp;·&nbsp; TASI 2026 &nbsp;·&nbsp; PEOPLE FIRST. SAFETY ALWAYS. &nbsp;·&nbsp; CENTRE FOR SOCIAL RESEARCH &nbsp;·&nbsp; </div><div style="margin-left:-0mm">TRUST &amp; SAFETY INDIA FESTIVAL 2026 &nbsp;·&nbsp; TASI 2026 &nbsp;·&nbsp; PEOPLE FIRST. SAFETY ALWAYS. &nbsp;·&nbsp; CENTRE FOR SOCIAL RESEARCH &nbsp;·&nbsp; TRUST &amp; SAFETY INDIA FESTIVAL 2026 &nbsp;·&nbsp; TASI 2026 &nbsp;·&nbsp; PEOPLE FIRST. SAFETY ALWAYS. &nbsp;·&nbsp; CENTRE FOR SOCIAL RESEARCH &nbsp;·&nbsp; TRUST &amp; SAFETY INDIA FESTIVAL 2026 &nbsp;·&nbsp; TASI 2026 &nbsp;·&nbsp; PEOPLE FIRST. SAFETY ALWAYS. &nbsp;·&nbsp; CENTRE FOR SOCIAL RESEARCH &nbsp;·&nbsp; TRUST &amp; SAFETY INDIA FESTIVAL 2026 &nbsp;·&nbsp; TASI 2026 &nbsp;·&nbsp; PEOPLE FIRST. SAFETY ALWAYS. &nbsp;·&nbsp; CENTRE FOR SOCIAL RESEARCH &nbsp;·&nbsp; </div><div style="margin-left:-30mm">TRUST &amp; SAFETY INDIA FESTIVAL 2026 &nbsp;·&nbsp; TASI 2026 &nbsp;·&nbsp; PEOPLE FIRST. SAFETY ALWAYS. &nbsp;·&nbsp; CENTRE FOR SOCIAL RESEARCH &nbsp;·&nbsp; TRUST &amp; SAFETY INDIA FESTIVAL 2026 &nbsp;·&nbsp; TASI 2026 &nbsp;·&nbsp; PEOPLE FIRST. SAFETY ALWAYS. &nbsp;·&nbsp; CENTRE FOR SOCIAL RESEARCH &nbsp;·&nbsp; TRUST &amp; SAFETY INDIA FESTIVAL 2026 &nbsp;·&nbsp; TASI 2026 &nbsp;·&nbsp; PEOPLE FIRST. SAFETY ALWAYS. &nbsp;·&nbsp; CENTRE FOR SOCIAL RESEARCH &nbsp;·&nbsp; TRUST &amp; SAFETY INDIA FESTIVAL 2026 &nbsp;·&nbsp; TASI 2026 &nbsp;·&nbsp; PEOPLE FIRST. SAFETY ALWAYS. &nbsp;·&nbsp; CENTRE FOR SOCIAL RESEARCH &nbsp;·&nbsp; </div><div style="margin-left:-0mm">TRUST &amp; SAFETY INDIA FESTIVAL 2026 &nbsp;·&nbsp; TASI 2026 &nbsp;·&nbsp; PEOPLE FIRST. SAFETY ALWAYS. &nbsp;·&nbsp; CENTRE FOR SOCIAL RESEARCH &nbsp;·&nbsp; TRUST &amp; SAFETY INDIA FESTIVAL 2026 &nbsp;·&nbsp; TASI 2026 &nbsp;·&nbsp; PEOPLE FIRST. SAFETY ALWAYS. &nbsp;·&nbsp; CENTRE FOR SOCIAL RESEARCH &nbsp;·&nbsp; TRUST &amp; SAFETY INDIA FESTIVAL 2026 &nbsp;·&nbsp; TASI 2026 &nbsp;·&nbsp; PEOPLE FIRST. SAFETY ALWAYS. &nbsp;·&nbsp; CENTRE FOR SOCIAL RESEARCH &nbsp;·&nbsp; TRUST &amp; SAFETY INDIA FESTIVAL 2026 &nbsp;·&nbsp; TASI 2026 &nbsp;·&nbsp; PEOPLE FIRST. SAFETY ALWAYS. &nbsp;·&nbsp; CENTRE FOR SOCIAL RESEARCH &nbsp;·&nbsp; </div><div style="margin-left:-30mm">TRUST &amp; SAFETY INDIA FESTIVAL 2026 &nbsp;·&nbsp; TASI 2026 &nbsp;·&nbsp; PEOPLE FIRST. SAFETY ALWAYS. &nbsp;·&nbsp; CENTRE FOR SOCIAL RESEARCH &nbsp;·&nbsp; TRUST &amp; SAFETY INDIA FESTIVAL 2026 &nbsp;·&nbsp; TASI 2026 &nbsp;·&nbsp; PEOPLE FIRST. SAFETY ALWAYS. &nbsp;·&nbsp; CENTRE FOR SOCIAL RESEARCH &nbsp;·&nbsp; TRUST &amp; SAFETY INDIA FESTIVAL 2026 &nbsp;·&nbsp; TASI 2026 &nbsp;·&nbsp; PEOPLE FIRST. SAFETY ALWAYS. &nbsp;·&nbsp; CENTRE FOR SOCIAL RESEARCH &nbsp;·&nbsp; TRUST &amp; SAFETY INDIA FESTIVAL 2026 &nbsp;·&nbsp; TASI 2026 &nbsp;·&nbsp; PEOPLE FIRST. SAFETY ALWAYS. &nbsp;·&nbsp; CENTRE FOR SOCIAL RESEARCH &nbsp;·&nbsp; </div><div style="margin-left:-0mm">TRUST &amp; SAFETY INDIA FESTIVAL 2026 &nbsp;·&nbsp; TASI 2026 &nbsp;·&nbsp; PEOPLE FIRST. SAFETY ALWAYS. &nbsp;·&nbsp; CENTRE FOR SOCIAL RESEARCH &nbsp;·&nbsp; TRUST &amp; SAFETY INDIA FESTIVAL 2026 &nbsp;·&nbsp; TASI 2026 &nbsp;·&nbsp; PEOPLE FIRST. SAFETY ALWAYS. &nbsp;·&nbsp; CENTRE FOR SOCIAL RESEARCH &nbsp;·&nbsp; TRUST &amp; SAFETY INDIA FESTIVAL 2026 &nbsp;·&nbsp; TASI 2026 &nbsp;·&nbsp; PEOPLE FIRST. SAFETY ALWAYS. &nbsp;·&nbsp; CENTRE FOR SOCIAL RESEARCH &nbsp;·&nbsp; TRUST &amp; SAFETY INDIA FESTIVAL 2026 &nbsp;·&nbsp; TASI 2026 &nbsp;·&nbsp; PEOPLE FIRST. SAFETY ALWAYS. &nbsp;·&nbsp; CENTRE FOR SOCIAL RESEARCH &nbsp;·&nbsp; </div><div style="margin-left:-30mm">TRUST &amp; SAFETY INDIA FESTIVAL 2026 &nbsp;·&nbsp; TASI 2026 &nbsp;·&nbsp; PEOPLE FIRST. SAFETY ALWAYS. &nbsp;·&nbsp; CENTRE FOR SOCIAL RESEARCH &nbsp;·&nbsp; TRUST &amp; SAFETY INDIA FESTIVAL 2026 &nbsp;·&nbsp; TASI 2026 &nbsp;·&nbsp; PEOPLE FIRST. SAFETY ALWAYS. &nbsp;·&nbsp; CENTRE FOR SOCIAL RESEARCH &nbsp;·&nbsp; TRUST &amp; SAFETY INDIA FESTIVAL 2026 &nbsp;·&nbsp; TASI 2026 &nbsp;·&nbsp; PEOPLE FIRST. SAFETY ALWAYS. &nbsp;·&nbsp; CENTRE FOR SOCIAL RESEARCH &nbsp;·&nbsp; TRUST &amp; SAFETY INDIA FESTIVAL 2026 &nbsp;·&nbsp; TASI 2026 &nbsp;·&nbsp; PEOPLE FIRST. SAFETY ALWAYS. &nbsp;·&nbsp; CENTRE FOR SOCIAL RESEARCH &nbsp;·&nbsp; </div><div style="margin-left:-0mm">TRUST &amp; SAFETY INDIA FESTIVAL 2026 &nbsp;·&nbsp; TASI 2026 &nbsp;·&nbsp; PEOPLE FIRST. SAFETY ALWAYS. &nbsp;·&nbsp; CENTRE FOR SOCIAL RESEARCH &nbsp;·&nbsp; TRUST &amp; SAFETY INDIA FESTIVAL 2026 &nbsp;·&nbsp; TASI 2026 &nbsp;·&nbsp; PEOPLE FIRST. SAFETY ALWAYS. &nbsp;·&nbsp; CENTRE FOR SOCIAL RESEARCH &nbsp;·&nbsp; TRUST &amp; SAFETY INDIA FESTIVAL 2026 &nbsp;·&nbsp; TASI 2026 &nbsp;·&nbsp; PEOPLE FIRST. SAFETY ALWAYS. &nbsp;·&nbsp; CENTRE FOR SOCIAL RESEARCH &nbsp;·&nbsp; TRUST &amp; SAFETY INDIA FESTIVAL 2026 &nbsp;·&nbsp; TASI 2026 &nbsp;·&nbsp; PEOPLE FIRST. SAFETY ALWAYS. &nbsp;·&nbsp; CENTRE FOR SOCIAL RESEARCH &nbsp;·&nbsp; </div><div style="margin-left:-30mm">TRUST &amp; SAFETY INDIA FESTIVAL 2026 &nbsp;·&nbsp; TASI 2026 &nbsp;·&nbsp; PEOPLE FIRST. SAFETY ALWAYS. &nbsp;·&nbsp; CENTRE FOR SOCIAL RESEARCH &nbsp;·&nbsp; TRUST &amp; SAFETY INDIA FESTIVAL 2026 &nbsp;·&nbsp; TASI 2026 &nbsp;·&nbsp; PEOPLE FIRST. SAFETY ALWAYS. &nbsp;·&nbsp; CENTRE FOR SOCIAL RESEARCH &nbsp;·&nbsp; TRUST &amp; SAFETY INDIA FESTIVAL 2026 &nbsp;·&nbsp; TASI 2026 &nbsp;·&nbsp; PEOPLE FIRST. SAFETY ALWAYS. &nbsp;·&nbsp; CENTRE FOR SOCIAL RESEARCH &nbsp;·&nbsp; TRUST &amp; SAFETY INDIA FESTIVAL 2026 &nbsp;·&nbsp; TASI 2026 &nbsp;·&nbsp; PEOPLE FIRST. SAFETY ALWAYS. &nbsp;·&nbsp; CENTRE FOR SOCIAL RESEARCH &nbsp;·&nbsp; </div><div style="margin-left:-0mm">TRUST &amp; SAFETY INDIA FESTIVAL 2026 &nbsp;·&nbsp; TASI 2026 &nbsp;·&nbsp; PEOPLE FIRST. SAFETY ALWAYS. &nbsp;·&nbsp; CENTRE FOR SOCIAL RESEARCH &nbsp;·&nbsp; TRUST &amp; SAFETY INDIA FESTIVAL 2026 &nbsp;·&nbsp; TASI 2026 &nbsp;·&nbsp; PEOPLE FIRST. SAFETY ALWAYS. &nbsp;·&nbsp; CENTRE FOR SOCIAL RESEARCH &nbsp;·&nbsp; TRUST &amp; SAFETY INDIA FESTIVAL 2026 &nbsp;·&nbsp; TASI 2026 &nbsp;·&nbsp; PEOPLE FIRST. SAFETY ALWAYS. &nbsp;·&nbsp; CENTRE FOR SOCIAL RESEARCH &nbsp;·&nbsp; TRUST &amp; SAFETY INDIA FESTIVAL 2026 &nbsp;·&nbsp; TASI 2026 &nbsp;·&nbsp; PEOPLE FIRST. SAFETY ALWAYS. &nbsp;·&nbsp; CENTRE FOR SOCIAL RESEARCH &nbsp;·&nbsp; </div><div style="margin-left:-30mm">TRUST &amp; SAFETY INDIA FESTIVAL 2026 &nbsp;·&nbsp; TASI 2026 &nbsp;·&nbsp; PEOPLE FIRST. SAFETY ALWAYS. &nbsp;·&nbsp; CENTRE FOR SOCIAL RESEARCH &nbsp;·&nbsp; TRUST &amp; SAFETY INDIA FESTIVAL 2026 &nbsp;·&nbsp; TASI 2026 &nbsp;·&nbsp; PEOPLE FIRST. SAFETY ALWAYS. &nbsp;·&nbsp; CENTRE FOR SOCIAL RESEARCH &nbsp;·&nbsp; TRUST &amp; SAFETY INDIA FESTIVAL 2026 &nbsp;·&nbsp; TASI 2026 &nbsp;·&nbsp; PEOPLE FIRST. SAFETY ALWAYS. &nbsp;·&nbsp; CENTRE FOR SOCIAL RESEARCH &nbsp;·&nbsp; TRUST &amp; SAFETY INDIA FESTIVAL 2026 &nbsp;·&nbsp; TASI 2026 &nbsp;·&nbsp; PEOPLE FIRST. SAFETY ALWAYS. &nbsp;·&nbsp; CENTRE FOR SOCIAL RESEARCH &nbsp;·&nbsp; </div><div style="margin-left:-0mm">TRUST &amp; SAFETY INDIA FESTIVAL 2026 &nbsp;·&nbsp; TASI 2026 &nbsp;·&nbsp; PEOPLE FIRST. SAFETY ALWAYS. &nbsp;·&nbsp; CENTRE FOR SOCIAL RESEARCH &nbsp;·&nbsp; TRUST &amp; SAFETY INDIA FESTIVAL 2026 &nbsp;·&nbsp; TASI 2026 &nbsp;·&nbsp; PEOPLE FIRST. SAFETY ALWAYS. &nbsp;·&nbsp; CENTRE FOR SOCIAL RESEARCH &nbsp;·&nbsp; TRUST &amp; SAFETY INDIA FESTIVAL 2026 &nbsp;·&nbsp; TASI 2026 &nbsp;·&nbsp; PEOPLE FIRST. SAFETY ALWAYS. &nbsp;·&nbsp; CENTRE FOR SOCIAL RESEARCH &nbsp;·&nbsp; TRUST &amp; SAFETY INDIA FESTIVAL 2026 &nbsp;·&nbsp; TASI 2026 &nbsp;·&nbsp; PEOPLE FIRST. SAFETY ALWAYS. &nbsp;·&nbsp; CENTRE FOR SOCIAL RESEARCH &nbsp;·&nbsp; </div><div style="margin-left:-30mm">TRUST &amp; SAFETY INDIA FESTIVAL 2026 &nbsp;·&nbsp; TASI 2026 &nbsp;·&nbsp; PEOPLE FIRST. SAFETY ALWAYS. &nbsp;·&nbsp; CENTRE FOR SOCIAL RESEARCH &nbsp;·&nbsp; TRUST &amp; SAFETY INDIA FESTIVAL 2026 &nbsp;·&nbsp; TASI 2026 &nbsp;·&nbsp; PEOPLE FIRST. SAFETY ALWAYS. &nbsp;·&nbsp; CENTRE FOR SOCIAL RESEARCH &nbsp;·&nbsp; TRUST &amp; SAFETY INDIA FESTIVAL 2026 &nbsp;·&nbsp; TASI 2026 &nbsp;·&nbsp; PEOPLE FIRST. SAFETY ALWAYS. &nbsp;·&nbsp; CENTRE FOR SOCIAL RESEARCH &nbsp;·&nbsp; TRUST &amp; SAFETY INDIA FESTIVAL 2026 &nbsp;·&nbsp; TASI 2026 &nbsp;·&nbsp; PEOPLE FIRST. SAFETY ALWAYS. &nbsp;·&nbsp; CENTRE FOR SOCIAL RESEARCH &nbsp;·&nbsp; </div><div style="margin-left:-0mm">TRUST &amp; SAFETY INDIA FESTIVAL 2026 &nbsp;·&nbsp; TASI 2026 &nbsp;·&nbsp; PEOPLE FIRST. SAFETY ALWAYS. &nbsp;·&nbsp; CENTRE FOR SOCIAL RESEARCH &nbsp;·&nbsp; TRUST &amp; SAFETY INDIA FESTIVAL 2026 &nbsp;·&nbsp; TASI 2026 &nbsp;·&nbsp; PEOPLE FIRST. SAFETY ALWAYS. &nbsp;·&nbsp; CENTRE FOR SOCIAL RESEARCH &nbsp;·&nbsp; TRUST &amp; SAFETY INDIA FESTIVAL 2026 &nbsp;·&nbsp; TASI 2026 &nbsp;·&nbsp; PEOPLE FIRST. SAFETY ALWAYS. &nbsp;·&nbsp; CENTRE FOR SOCIAL RESEARCH &nbsp;·&nbsp; TRUST &amp; SAFETY INDIA FESTIVAL 2026 &nbsp;·&nbsp; TASI 2026 &nbsp;·&nbsp; PEOPLE FIRST. SAFETY ALWAYS. &nbsp;·&nbsp; CENTRE FOR SOCIAL RESEARCH &nbsp;·&nbsp; </div><div style="margin-left:-30mm">TRUST &amp; SAFETY INDIA FESTIVAL 2026 &nbsp;·&nbsp; TASI 2026 &nbsp;·&nbsp; PEOPLE FIRST. SAFETY ALWAYS. &nbsp;·&nbsp; CENTRE FOR SOCIAL RESEARCH &nbsp;·&nbsp; TRUST &amp; SAFETY INDIA FESTIVAL 2026 &nbsp;·&nbsp; TASI 2026 &nbsp;·&nbsp; PEOPLE FIRST. SAFETY ALWAYS. &nbsp;·&nbsp; CENTRE FOR SOCIAL RESEARCH &nbsp;·&nbsp; TRUST &amp; SAFETY INDIA FESTIVAL 2026 &nbsp;·&nbsp; TASI 2026 &nbsp;·&nbsp; PEOPLE FIRST. SAFETY ALWAYS. &nbsp;·&nbsp; CENTRE FOR SOCIAL RESEARCH &nbsp;·&nbsp; TRUST &amp; SAFETY INDIA FESTIVAL 2026 &nbsp;·&nbsp; TASI 2026 &nbsp;·&nbsp; PEOPLE FIRST. SAFETY ALWAYS. &nbsp;·&nbsp; CENTRE FOR SOCIAL RESEARCH &nbsp;·&nbsp; </div><div style="margin-left:-0mm">TRUST &amp; SAFETY INDIA FESTIVAL 2026 &nbsp;·&nbsp; TASI 2026 &nbsp;·&nbsp; PEOPLE FIRST. SAFETY ALWAYS. &nbsp;·&nbsp; CENTRE FOR SOCIAL RESEARCH &nbsp;·&nbsp; TRUST &amp; SAFETY INDIA FESTIVAL 2026 &nbsp;·&nbsp; TASI 2026 &nbsp;·&nbsp; PEOPLE FIRST. SAFETY ALWAYS. &nbsp;·&nbsp; CENTRE FOR SOCIAL RESEARCH &nbsp;·&nbsp; TRUST &amp; SAFETY INDIA FESTIVAL 2026 &nbsp;·&nbsp; TASI 2026 &nbsp;·&nbsp; PEOPLE FIRST. SAFETY ALWAYS. &nbsp;·&nbsp; CENTRE FOR SOCIAL RESEARCH &nbsp;·&nbsp; TRUST &amp; SAFETY INDIA FESTIVAL 2026 &nbsp;·&nbsp; TASI 2026 &nbsp;·&nbsp; PEOPLE FIRST. SAFETY ALWAYS. &nbsp;·&nbsp; CENTRE FOR SOCIAL RESEARCH &nbsp;·&nbsp; </div><div style="margin-left:-30mm">TRUST &amp; SAFETY INDIA FESTIVAL 2026 &nbsp;·&nbsp; TASI 2026 &nbsp;·&nbsp; PEOPLE FIRST. SAFETY ALWAYS. &nbsp;·&nbsp; CENTRE FOR SOCIAL RESEARCH &nbsp;·&nbsp; TRUST &amp; SAFETY INDIA FESTIVAL 2026 &nbsp;·&nbsp; TASI 2026 &nbsp;·&nbsp; PEOPLE FIRST. SAFETY ALWAYS. &nbsp;·&nbsp; CENTRE FOR SOCIAL RESEARCH &nbsp;·&nbsp; TRUST &amp; SAFETY INDIA FESTIVAL 2026 &nbsp;·&nbsp; TASI 2026 &nbsp;·&nbsp; PEOPLE FIRST. SAFETY ALWAYS. &nbsp;·&nbsp; CENTRE FOR SOCIAL RESEARCH &nbsp;·&nbsp; TRUST &amp; SAFETY INDIA FESTIVAL 2026 &nbsp;·&nbsp; TASI 2026 &nbsp;·&nbsp; PEOPLE FIRST. SAFETY ALWAYS. &nbsp;·&nbsp; CENTRE FOR SOCIAL RESEARCH &nbsp;·&nbsp; </div></div>

diff --git a/src/lib/certificate-pdf.js b/src/lib/certificate-pdf.js
@@ -145,12 +145,12 @@ export async function renderCertificatePdf({
 
   // Personal microtext: the holder's name and certificate ID in a fine line
   // just inside the top and bottom of the border. Too small to retype
-  // cleanly, and it must match the name and ID printed above. Along the
-  // bottom it stops either side of the skyline (66–231 mm).
+  // cleanly, and it must match the name and ID printed above. The bottom
+  // line sits in the coloured border, below the full-width skyline.
   const micro = `${name.toUpperCase()} · ${code} · `;
   const microSize = 4.2;
   const microColor = rgb(67 / 255, 53 / 255, 138 / 255);
-  const microRun = (left, width, top) => {
+  const microRun = (left, width, top, color = microColor, opacity = 0.55) => {
     let line = micro.repeat(
       Math.ceil(x(width) / regular.widthOfTextAtSize(micro, microSize)) + 1
     );
@@ -162,25 +162,24 @@ export async function renderCertificatePdf({
       y: y(top),
       size: microSize,
       font: regular,
-      color: microColor,
-      opacity: 0.55,
+      color,
+      opacity,
     });
   };
   microRun(10, 277, 9.6);
-  microRun(10, 52, 201.6);
-  microRun(235, 52, 201.6);
+  microRun(10, 277, 207.6, rgb(1, 1, 1), 0.7);
 
   drawCentered(page, config.title.toUpperCase(), {
     font: semibold,
     size: 12,
-    top: 56,
+    top: 50,
     color: PURPLE,
     tracking: 3.8,
   });
   drawCentered(page, 'This is to certify that', {
     font: regular,
     size: 12.5,
-    top: 68,
+    top: 62,
     color: MUTED,
   });
 
@@ -192,12 +191,12 @@ export async function renderCertificatePdf({
   drawCentered(page, name, {
     font: display,
     size: nameSize,
-    top: 86,
+    top: 80,
     color: NAVY,
   });
   page.drawLine({
-    start: { x: PAGE_W / 2 - x(60), y: y(93) },
-    end: { x: PAGE_W / 2 + x(60), y: y(93) },
+    start: { x: PAGE_W / 2 - x(60), y: y(87) },
+    end: { x: PAGE_W / 2 + x(60), y: y(87) },
     thickness: 0.6,
     color: RULE,
   });
@@ -207,35 +206,35 @@ export async function renderCertificatePdf({
   drawRuns(
     page,
     [plain('participated in the '), strong(config.eventName), plain(',')],
-    { top: 103, size: 12.5 }
+    { top: 97, size: 12.5 }
   );
   drawRuns(
     page,
     [plain('held on '), strong(config.dates), plain(` at ${config.venue},`)],
-    { top: 110.5, size: 12.5 }
+    { top: 104.5, size: 12.5 }
   );
   drawRuns(page, [plain(`organised by ${config.organisers}.`)], {
-    top: 118,
+    top: 112,
     size: 12.5,
   });
 
   // Signature block: the signature itself is part of the template.
   page.drawLine({
-    start: { x: x(29), y: y(152) },
-    end: { x: x(91), y: y(152) },
+    start: { x: x(29), y: y(140) },
+    end: { x: x(91), y: y(140) },
     thickness: 0.6,
     color: BODY,
   });
   page.drawText(config.signatory, {
     x: x(29),
-    y: y(158),
+    y: y(146),
     size: 11,
     font: bold,
     color: INK,
   });
   page.drawText(config.signatoryRole, {
     x: x(29),
-    y: y(162.5),
+    y: y(150.5),
     size: 9.5,
     font: regular,
     color: MUTED,
@@ -251,12 +250,12 @@ export async function renderCertificatePdf({
       color: { dark: '#022d5d', light: '#ffffff' },
     })
   );
-  page.drawImage(qr, { x: x(247), y: y(165), width: x(21), height: x(21) });
+  page.drawImage(qr, { x: x(247), y: y(153), width: x(21), height: x(21) });
   drawRight(page, `Certificate ID: ${code}`, {
     font: semibold,
     size: 9,
     right: 243,
-    top: 154,
+    top: 142,
     color: INK,
   });
   drawRight(
@@ -268,7 +267,7 @@ export async function renderCertificatePdf({
       font: regular,
       size: 8,
       right: 243,
-      top: 158.5,
+      top: 146.5,
       color: MUTED,
     }
   );
@@ -276,7 +275,7 @@ export async function renderCertificatePdf({
     font: regular,
     size: 8,
     right: 243,
-    top: 163,
+    top: 151,
     color: MUTED,
   });
 

diff --git a/src/components/certificates/certificate-preview.jsx b/src/components/certificates/certificate-preview.jsx
@@ -42,7 +42,7 @@ export default function CertificatePreview({
         <p
           className="absolute inset-x-0 font-semibold uppercase"
           style={{
-            top: mm(52),
+            top: mm(46),
             fontSize: mm(4.2),
             letterSpacing: '0.3em',
             color: '#43358a',
@@ -52,14 +52,14 @@ export default function CertificatePreview({
         </p>
         <p
           className="absolute inset-x-0"
-          style={{ top: mm(63.5), fontSize: mm(4.4), color: '#5f6368' }}
+          style={{ top: mm(57.5), fontSize: mm(4.4), color: '#5f6368' }}
         >
           This is to certify that
         </p>
         <p
           className={`${display.className} absolute inset-x-0 truncate px-[8%]`}
           style={{
-            top: mm(73),
+            top: mm(67),
             fontSize: mm(12),
             lineHeight: 1.1,
             color: '#022d5d',
@@ -70,7 +70,7 @@ export default function CertificatePreview({
         <div
           className="absolute left-1/2 -translate-x-1/2"
           style={{
-            top: mm(93),
+            top: mm(87),
             width: mm(120),
             height: 1,
             background: '#dadce0',
@@ -78,7 +78,7 @@ export default function CertificatePreview({
         />
         <p
           className="absolute inset-x-0 px-[10%]"
-          style={{ top: mm(99), fontSize: mm(4.4), lineHeight: 1.6 }}
+          style={{ top: mm(93), fontSize: mm(4.4), lineHeight: 1.6 }}
         >
           participated in the{' '}
           <b style={{ color: '#202124', fontWeight: 600 }}>
@@ -95,7 +95,7 @@ export default function CertificatePreview({
           className="absolute text-left"
           style={{
             left: mm(29),
-            top: mm(148),
+            top: mm(136),
             fontSize: mm(3.8),
             color: '#202124',
           }}
@@ -117,7 +117,7 @@ export default function CertificatePreview({
           className="absolute text-right"
           style={{
             right: mm(30),
-            top: mm(150),
+            top: mm(138),
             fontSize: mm(3.2),
             color: '#5f6368',
           }}

diff --git a/src/app/certificates/verify/[code]/opengraph-image.js b/src/app/certificates/verify/[code]/opengraph-image.js
@@ -272,7 +272,7 @@ export default async function Image({ params }) {
             alignItems: 'center',
             position: 'absolute',
             left: 0,
-            top: 96,
+            top: 85,
             width: 560,
             color: '#3c4043',
           }}
@@ -324,7 +324,7 @@ export default async function Image({ params }) {
           style={{
             position: 'absolute',
             right: 56,
-            top: 286,
+            top: 263,
             fontSize: 9,
             fontWeight: 700,
             color: '#202124',
